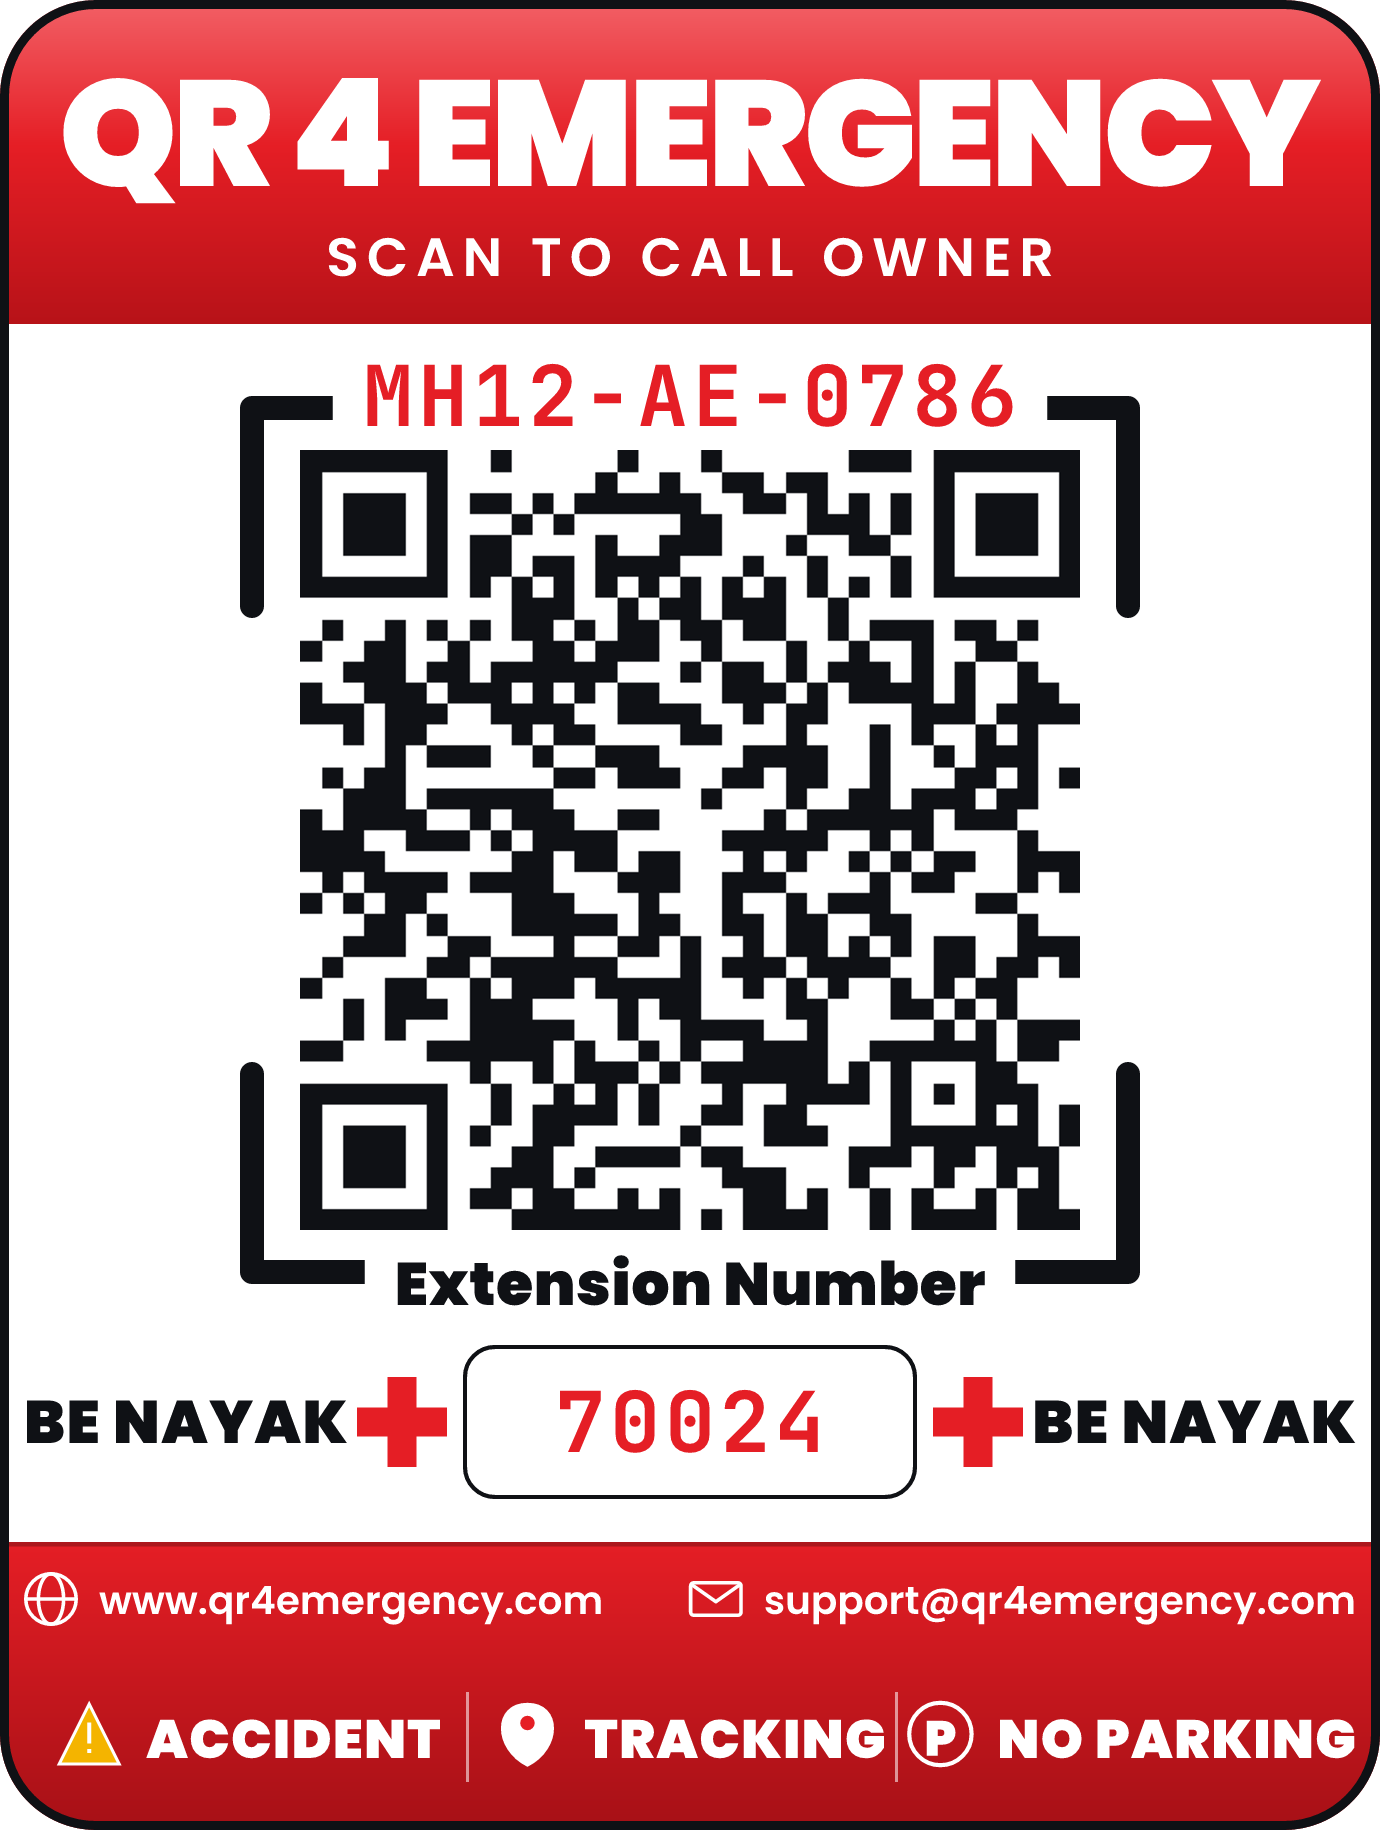
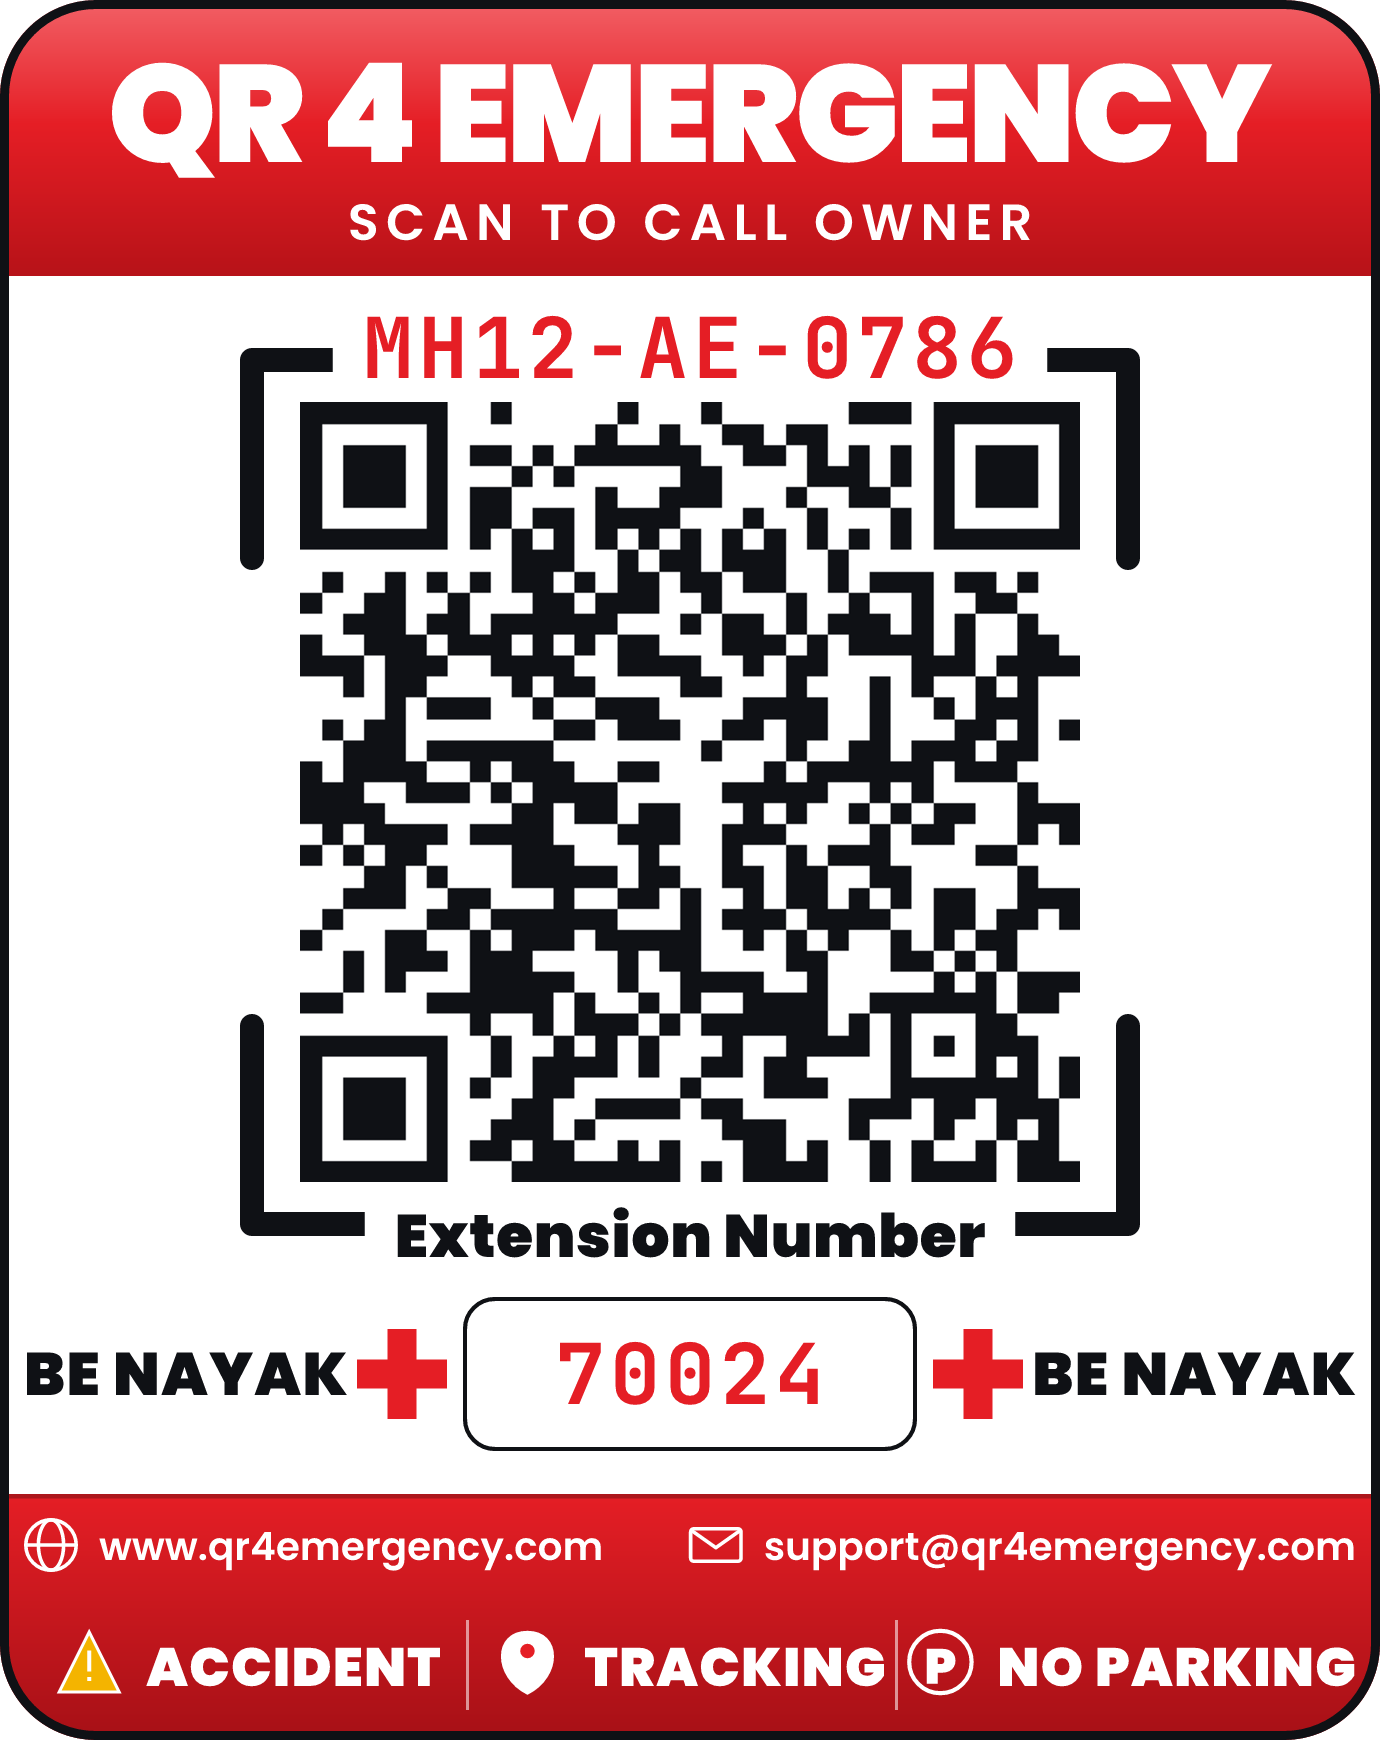
feat: adjust header and footer dimensions in buildStickerSvg for improved layout

diff --git a/src/utils/sticker.js b/src/utils/sticker.js
@@ -249,7 +249,7 @@ function buildStickerSvg({ qrPngB64, digits, showVehicle, vehicleNumber }) {
   // background rect behind each text label BEFORE painting the text,
   // which hides the bracket segment under the label. Longer bracket
   // arms so they reach almost to the text edges from each corner.
-  const HEADER_H = 108;
+  const HEADER_H = 92;
   const HEADER_TO_FRAME_GAP = 24; // clearance above vehicle text (text extends above frame top)
 
   const QR_SIZE = 260;
@@ -275,7 +275,7 @@ function buildStickerSvg({ qrPngB64, digits, showVehicle, vehicleNumber }) {
   const ROW_H = 52;
 
   const FOOTER_TOP = ROW_Y + ROW_H + 14;
-  const FOOTER_H = 96;
+  const FOOTER_H = 82;
   const H = FOOTER_TOP + FOOTER_H;
 
   // Bracket arm length — longer than usual so the arms extend inward
@@ -379,12 +379,12 @@ function buildStickerSvg({ qrPngB64, digits, showVehicle, vehicleNumber }) {
     <!-- "QR 4 EMERGENCY" wordmark — sized to fill ~90% of the sticker
          width. Poppins Black at size 50 with tighter tracking so it
          reads as one solid wordmark and stays inside the sticker edges.
-         Baselines shifted up for the compact 108px header. -->
-    ${textPath('QR 4 EMERGENCY', W / 2, 62, {
-      font: FONT_HEADING, size: 50, fill: WHITE, anchor: 'middle', letterSpacing: -1.5,
+         Baselines shifted up for the compact 92px header. -->
+    ${textPath('QR 4 EMERGENCY', W / 2, 54, {
+      font: FONT_HEADING, size: 46, fill: WHITE, anchor: 'middle', letterSpacing: -1.3,
     })}
-    ${textPath('SCAN TO CALL OWNER', W / 2, 92, {
-      font: FONT_BODY, size: 18, fill: WHITE, anchor: 'middle', letterSpacing: 2.6,
+    ${textPath('SCAN TO CALL OWNER', W / 2, 80, {
+      font: FONT_BODY, size: 17, fill: WHITE, anchor: 'middle', letterSpacing: 2.4,
     })}
 
     <!-- ── QR image ─────────────────────────────────────────── -->
@@ -492,11 +492,11 @@ function buildStickerSvg({ qrPngB64, digits, showVehicle, vehicleNumber }) {
     <rect x="0" y="${FOOTER_TOP}" width="${W}" height="1.5" fill="#000000" opacity="0.25"/>
 
     <!-- Row 1: globe + website | mail + email -->
-    ${footerRow1(FOOTER_TOP + 22)}
+    ${footerRow1(FOOTER_TOP + 20)}
 
     <!-- Row 2: warning + ACCIDENT | pin + TRACKING | P + NO PARKING,
          separated by thin white vertical dividers -->
-    ${footerRow2(FOOTER_TOP + 68)}
+    ${footerRow2(FOOTER_TOP + 60)}
   </g>
 
   <!-- ── Outer black border ring ──────────────────────────────
